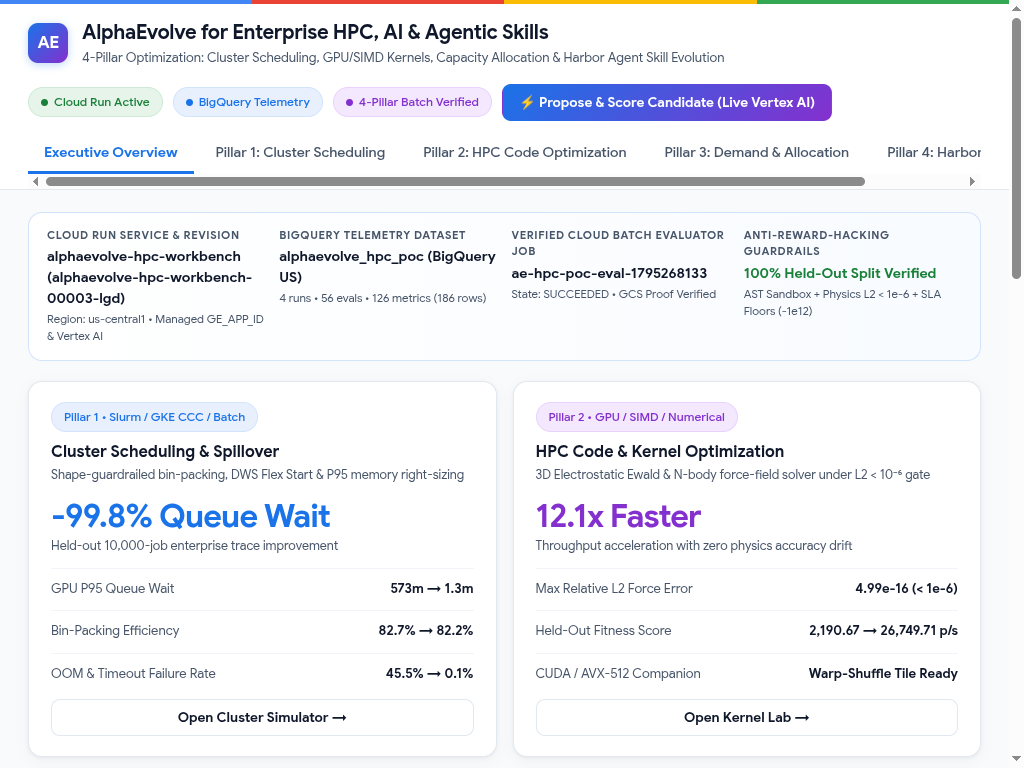
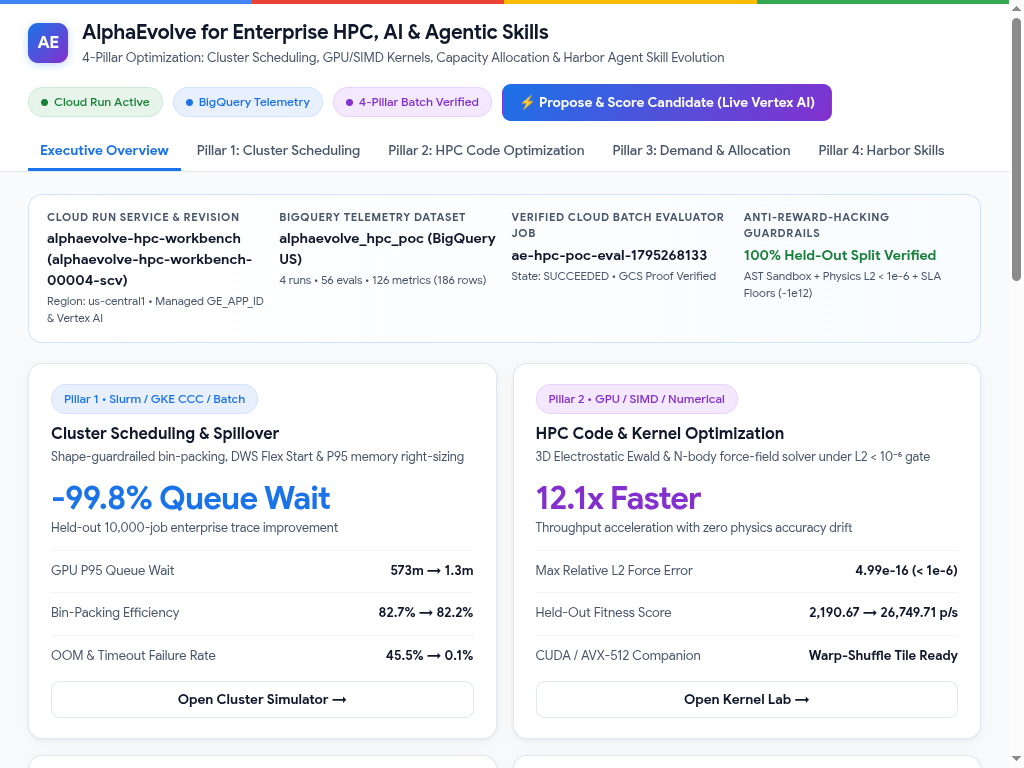
Polish GKE gVisor Workload Identity log streaming & 5-tab Harbor Workbench UI

diff --git a/app/static/index.html b/app/static/index.html
@@ -110,18 +110,28 @@
     .pill-amber { background: var(--amber-soft); color: var(--amber); border-color: #fde293; }
     .dot { width: 7px; height: 7px; border-radius: 50%; background: currentColor; }
 
+    code {
+      font-family: 'Google Sans Mono', monospace;
+      font-size: 0.91em;
+      background: var(--surface-alt);
+      padding: 1px 5px;
+      border-radius: 4px;
+      color: #1e293b;
+    }
+    pre.code-box code { background: transparent; padding: 0; color: inherit; }
+
     .nav-tabs {
       display: flex;
-      gap: 6px;
-      overflow-x: auto;
+      flex-wrap: wrap;
+      gap: 4px;
     }
     .tab-btn {
       background: transparent;
       border: none;
       border-bottom: 3px solid transparent;
-      padding: 10px 16px;
+      padding: 9px 12px;
       font-family: inherit;
-      font-size: 14px;
+      font-size: 13.5px;
       font-weight: 500;
       color: var(--muted);
       cursor: pointer;
@@ -363,7 +373,7 @@
         <button class="tab-btn" id="tab-btn-pillar1" onclick="switchTab('pillar1')">Pillar 1: Cluster Scheduling</button>
         <button class="tab-btn" id="tab-btn-pillar2" onclick="switchTab('pillar2')">Pillar 2: HPC Code Optimization</button>
         <button class="tab-btn" id="tab-btn-pillar3" onclick="switchTab('pillar3')">Pillar 3: Demand &amp; Allocation</button>
-        <button class="tab-btn" id="tab-btn-pillar4" onclick="switchTab('pillar4')">Pillar 4: Harbor Skill Optimizer</button>
+        <button class="tab-btn" id="tab-btn-pillar4" onclick="switchTab('pillar4')">Pillar 4: Harbor Skills</button>
       </nav>
     </div>
   </header>
@@ -455,7 +465,7 @@
             <div>
               <span class="pill pill-amber">Pillar 4 • AlphaEvolve + Harbor</span>
               <div class="card-title" style="margin-top:8px;">Agent Skill &amp; Harness Optimizer</div>
-              <div class="card-subtitle">Evolves `def build_skill()` (`SKILL.md`) via paired GKE Harbor trials</div>
+              <div class="card-subtitle">Evolves <code>def build_skill()</code> (<code>SKILL.md</code>) via paired GKE Harbor trials</div>
             </div>
           </div>
           <div class="kpi-big" style="color: var(--amber);" id="ov-p4-headline">--</div>
@@ -536,7 +546,7 @@
                 <div class="arch-icon" style="background: var(--green-soft); color: var(--green);">BQ</div>
                 <div>
                   <div class="arch-node-title">Cloud Storage &amp; BigQuery</div>
-                  <div class="arch-node-sub">Read-only traces (`-o ro`) &amp; run telemetry</div>
+                  <div class="arch-node-sub">Read-only traces (<code>-o ro</code>) &amp; run telemetry</div>
                 </div>
               </div>
             </div>
@@ -681,7 +691,7 @@
           <div class="card mt-16">
             <div class="card-header">
               <div>
-                <div class="card-title">Evolved `# EVOLVE-BLOCK` Policy Diff (`pillars/cluster_scheduling/main.py`)</div>
+                <div class="card-title">Evolved <code># EVOLVE-BLOCK</code> Policy Diff (<code>pillars/cluster_scheduling/main.py</code>)</div>
                 <div class="card-subtitle">White-box Python dispatch logic auditable before Slurm / GKE Custom Compute Class rollout</div>
               </div>
               <div style="display:flex; gap:6px;">
@@ -701,7 +711,7 @@
       <div class="grid-sidebar">
         <div class="card">
           <div class="card-title">Molecular Force-Field Benchmark</div>
-          <div class="card-subtitle" style="margin-bottom:16px;">3D Electrostatic Softened Ewald &amp; Neighbor-Cutoff Solver (`N = 512 .. 8,192` particles)</div>
+          <div class="card-subtitle" style="margin-bottom:16px;">3D Electrostatic Softened Ewald &amp; Neighbor-Cutoff Solver (<code>N = 512 .. 8,192</code> particles)</div>
 
           <div class="control-group">
             <div class="control-label"><span>Particle Conformation Scale (N)</span><span class="control-val" id="val-p2-n">2,048</span></div>
@@ -762,7 +772,7 @@
           <div class="card mt-16">
             <div class="card-header">
               <div>
-                <div class="card-title" id="p2-code-title">Evolved Numerical Solver (`pillars/hpc_code_optimization/main.py`)</div>
+                <div class="card-title" id="p2-code-title">Evolved Numerical Solver (<code>pillars/hpc_code_optimization/main.py</code>)</div>
                 <div class="card-subtitle">Toggle between live-evolved Python/NumPy solver diff and companion CUDA/AVX-512 kernel</div>
               </div>
               <div style="display:flex; gap:6px;">
@@ -852,7 +862,7 @@
           <div class="card mt-16">
             <div class="card-header">
               <div>
-                <div class="card-title">Evolved `# EVOLVE-BLOCK` Forecaster &amp; Allocator Diff (`pillars/demand_forecasting/main.py`)</div>
+                <div class="card-title">Evolved <code># EVOLVE-BLOCK</code> Forecaster &amp; Allocator Diff (<code>pillars/demand_forecasting/main.py</code>)</div>
                 <div class="card-subtitle">Quantile regime decomposition + newsvendor asymmetric CUD/DWS sizing</div>
               </div>
             </div>
@@ -867,7 +877,7 @@
       <div class="grid-sidebar">
         <div class="card">
           <div class="card-title">Harbor Trial &amp; Latency Sliders</div>
-          <div class="card-subtitle" style="margin-bottom:16px;">Simulates GKE Harbor pod-per-trial evaluation (`def build_skill()`) with paired concurrent baseline delta scoring</div>
+          <div class="card-subtitle" style="margin-bottom:16px;">Simulates GKE Harbor pod-per-trial evaluation (<code>def build_skill()</code>) with paired concurrent baseline delta scoring</div>
 
           <div class="control-group">
             <div class="control-label"><span>Task Timeout Strictness</span><span class="control-val" id="val-p4-timeout">1.00x</span></div>
@@ -887,7 +897,7 @@
           <button class="btn btn-primary" style="width:100%;" onclick="runPillar4Sim()">Run Paired Harbor Evaluation</button>
 
           <div class="mt-20" style="padding-top:14px; border-top:1px solid var(--border);">
-            <div class="proof-item-label">Execution Topology (`alphaevolve-on-googlecloud`)</div>
+            <div class="proof-item-label">Execution Topology (alphaevolve-on-googlecloud)</div>
             <div style="display:grid; grid-template-columns:1fr 1fr; gap:6px; margin-top:8px;">
               <button class="btn btn-outline active" id="topo-btn-ge" style="font-size:11.5px; padding:7px 8px;" onclick="selectArchTopology('ge')">Managed GE_APP_ID</button>
               <button class="btn btn-outline" id="topo-btn-gke" style="font-size:11.5px; padding:7px 8px;" onclick="selectArchTopology('gke')">GKE Harbor + Ray</button>
@@ -895,7 +905,7 @@
               <button class="btn btn-outline" id="topo-btn-podman" style="font-size:11.5px; padding:7px 8px;" onclick="selectArchTopology('podman')">Rootless Podman</button>
             </div>
             <div class="card-subtitle mt-16" id="topo-detail-box" style="background:var(--surface-alt); padding:10px 12px; border-radius:9px; color:var(--text);">
-              <strong>Managed AlphaEvolve (`GE_APP_ID` Discovery Engine):</strong> Regional `eu-` / `us-` endpoints, server-side MAP-Elites + weighted Gemini ensembles (`gemini-3.5/3.8-flash` + `gemini-3.1-pro-preview`), and 6 self-service `ae` CLI skills.
+              <strong>Managed AlphaEvolve (<code>GE_APP_ID</code> Discovery Engine):</strong> Regional <code>eu-</code> / <code>us-</code> endpoints, server-side MAP-Elites + weighted Gemini ensembles (<code>gemini-3.5/3.8-flash</code> + <code>gemini-3.1-pro-preview</code>), and 6 self-service <code>ae</code> CLI skills.
             </div>
           </div>
         </div>
@@ -924,7 +934,7 @@
               <div class="card-header">
                 <div>
                   <div class="card-title">Why Paired Concurrent Scoring Matters</div>
-                  <div class="card-subtitle">Running candidate `SKILL.md` next to baseline `SKILL.md` simultaneously (`cand - base`)</div>
+                  <div class="card-subtitle">Running candidate <code>SKILL.md</code> next to baseline <code>SKILL.md</code> simultaneously (<code>cand - base</code>)</div>
                 </div>
                 <span class="pill pill-green" id="p4-var-badge">Variance Cut</span>
               </div>
@@ -939,7 +949,7 @@
                 <tbody id="p4-noise-tbody"></tbody>
               </table>
               <div class="card-subtitle mt-16">
-                <strong>10h+ Production Guardrails:</strong> Adaptive P95 latency window avoids stalled evaluations during slow model windows, while ring-buffered `emptyDir` (`2Gi`) + GCS streaming prevents trial logs from filling controller disks.
+                <strong>10h+ Production Guardrails:</strong> Adaptive P95 latency window avoids stalled evaluations during slow model windows, while ring-buffered <code>emptyDir</code> (<code>2Gi</code>) + Workload Identity GCS streaming prevents trial logs from filling controller disks.
               </div>
             </div>
 
@@ -957,8 +967,8 @@
           <div class="card mt-16">
             <div class="card-header">
               <div>
-                <div class="card-title">Side-by-Side `Baseline SKILL.md` vs. `AlphaEvolve Evolved SKILL.md` (`def build_skill()`)</div>
-                <div class="card-subtitle">Inspect the evolved skill protocol ("Ship Baseline Early", `--signal=B:USR1`, input-driven `--mem`, NVMe `/scratch`)</div>
+                <div class="card-title">Side-by-Side Baseline <code>SKILL.md</code> vs. AlphaEvolve Evolved <code>SKILL.md</code> (<code>def build_skill()</code>)</div>
+                <div class="card-subtitle">Inspect the evolved skill protocol ("Ship Baseline Early", <code>--signal=B:USR1</code>, input-driven <code>--mem</code>, NVMe <code>/scratch</code>)</div>
               </div>
               <div style="display:flex; gap:6px; flex-wrap:wrap;">
                 <button class="btn btn-outline active" id="p4-btn-sidebyside" onclick="setP4CodeTab('sidebyside')">Side-by-Side SKILL.md</button>
@@ -968,11 +978,11 @@
             </div>
             <div id="p4-sidebyside-wrap" class="grid-2">
               <div>
-                <div class="proof-item-label" style="margin-bottom:6px; color:var(--red);">Baseline Vibe-Written `SKILL.md`</div>
+                <div class="proof-item-label" style="margin-bottom:6px; color:var(--red);">Baseline Vibe-Written SKILL.md</div>
                 <pre class="code-box" id="p4-base-skill-box"></pre>
               </div>
               <div>
-                <div class="proof-item-label" style="margin-bottom:6px; color:var(--green);">AlphaEvolve Evolved `SKILL.md`</div>
+                <div class="proof-item-label" style="margin-bottom:6px; color:var(--green);">AlphaEvolve Evolved SKILL.md</div>
                 <pre class="code-box" id="p4-evol-skill-box"></pre>
               </div>
             </div>
@@ -988,7 +998,7 @@
         <div>
           <span class="pill pill-purple">Live Cloud Sandbox • Vertex AI gemini-2.5-flash + Deterministic evaluator.py</span>
           <div class="card-title" style="margin-top:6px;">Interactive Single-Step Evolutionary Mutation Studio</div>
-          <div class="card-subtitle">Calls Vertex AI live in GCP to mutate an `# EVOLVE-BLOCK`, validates AST safety, and scores inside the deterministic sandbox in &lt;3s</div>
+          <div class="card-subtitle">Calls Vertex AI live in GCP to mutate an <code># EVOLVE-BLOCK</code>, validates AST safety, and scores inside the deterministic sandbox in &lt;3s</div>
         </div>
         <div id="live-evolve-badges" style="display:flex; gap:8px; flex-wrap:wrap;"></div>
       </div>
@@ -1017,11 +1027,11 @@
       <div id="live-evolve-output" class="mt-16" style="display:none;">
         <div class="grid-2">
           <div>
-            <div class="proof-item-label" style="margin-bottom:6px;">Live `# EVOLVE-BLOCK` Unified Diff Proposed by Gemini</div>
+            <div class="proof-item-label" style="margin-bottom:6px;">Live <code># EVOLVE-BLOCK</code> Unified Diff Proposed by Gemini</div>
             <pre class="code-box" id="live-diff-box"></pre>
           </div>
           <div>
-            <div class="proof-item-label" style="margin-bottom:6px;">Sandboxed `evaluator.py` Score &amp; Diagnostic Insights</div>
+            <div class="proof-item-label" style="margin-bottom:6px;">Sandboxed <code>evaluator.py</code> Score &amp; Diagnostic Insights</div>
             <div class="card" style="background: var(--bg);" id="live-insights-box"></div>
           </div>
         </div>
@@ -1416,10 +1426,10 @@
     let P4_CODE_TAB = 'sidebyside';
 
     const ARCH_TOPOLOGIES = {
-      ge: '<strong>Managed AlphaEvolve (`GE_APP_ID` Discovery Engine):</strong> Regional `eu-` / `us-` endpoints (`discoveryengine.googleapis.com`), server-side MAP-Elites + weighted Gemini ensembles (`gemini-3.5/3.8-flash` + `gemini-3.1-pro-preview`), and 6 self-service `ae` CLI skills.',
-      gke: '<strong>GKE Sandbox (`gVisor`) Harbor + KubeRay GPU Pool:</strong> 1 isolated `gVisor` pod per Harbor trial (`paired_delta = cand - base`) + autoscaling L4/A100 Ray workers + `2Gi` ring-buffered disk streaming trial logs to GCS.',
-      batch: '<strong>Google Cloud Batch Ephemeral Sandbox Pool:</strong> VPC-isolated (`noExternalIpAddress: true`) parallel container workers mounting trace/conformation datasets read-only (`-o ro`) with per-candidate write isolation.',
-      podman: '<strong>Rootless Podman (`subuids`) Workbench Mode:</strong> Zero-root local container evaluation (`usermod --add-subuids 100000-165535`) for interactive developer &amp; scientist login nodes without daemon privileges.',
+      ge: '<strong>Managed AlphaEvolve (<code>GE_APP_ID</code> Discovery Engine):</strong> Regional <code>eu-</code> / <code>us-</code> endpoints (<code>discoveryengine.googleapis.com</code>), server-side MAP-Elites + weighted Gemini ensembles (<code>gemini-3.5/3.8-flash</code> + <code>gemini-3.1-pro-preview</code>), and 6 self-service <code>ae</code> CLI skills.',
+      gke: '<strong>GKE Sandbox (<code>gVisor</code>) Harbor + KubeRay GPU Pool:</strong> 1 isolated <code>gVisor</code> pod per Harbor trial (<code>paired_delta = cand - base</code>) + autoscaling L4/A100 Ray workers + <code>2Gi</code> ring-buffered disk streaming trial logs to GCS via Workload Identity.',
+      batch: '<strong>Google Cloud Batch Ephemeral Sandbox Pool:</strong> VPC-isolated (<code>noExternalIpAddress: true</code>) parallel container workers mounting trace/conformation datasets read-only (<code>-o ro</code>) with per-candidate write isolation.',
+      podman: '<strong>Rootless Podman (<code>subuids</code>) Workbench Mode:</strong> Zero-root local container evaluation (<code>usermod --add-subuids 100000-165535</code>) for interactive developer &amp; scientist login nodes without daemon privileges.',
     };
 
     function selectArchTopology(key) {
